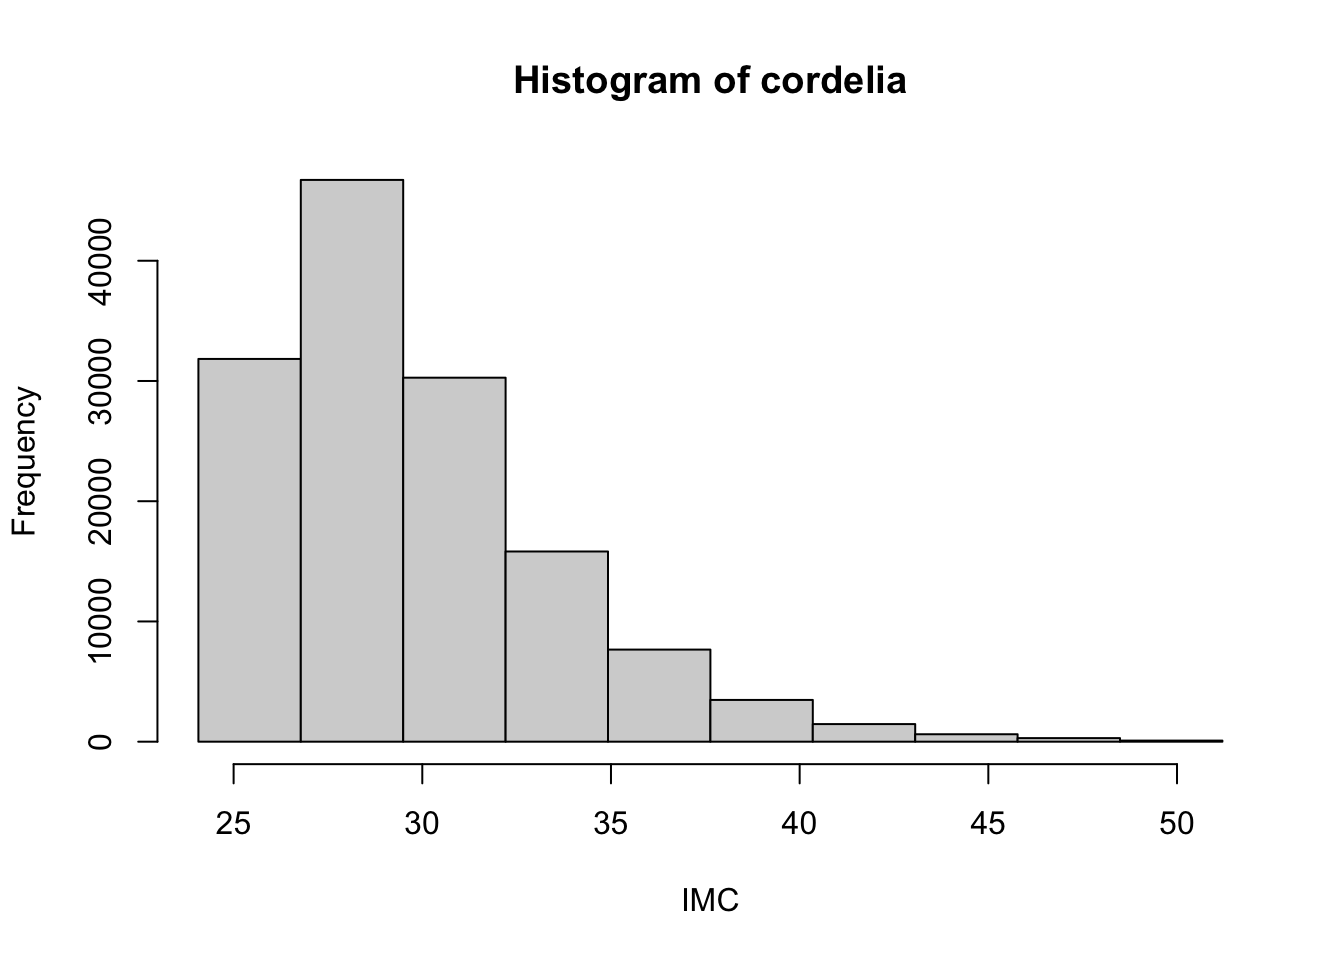
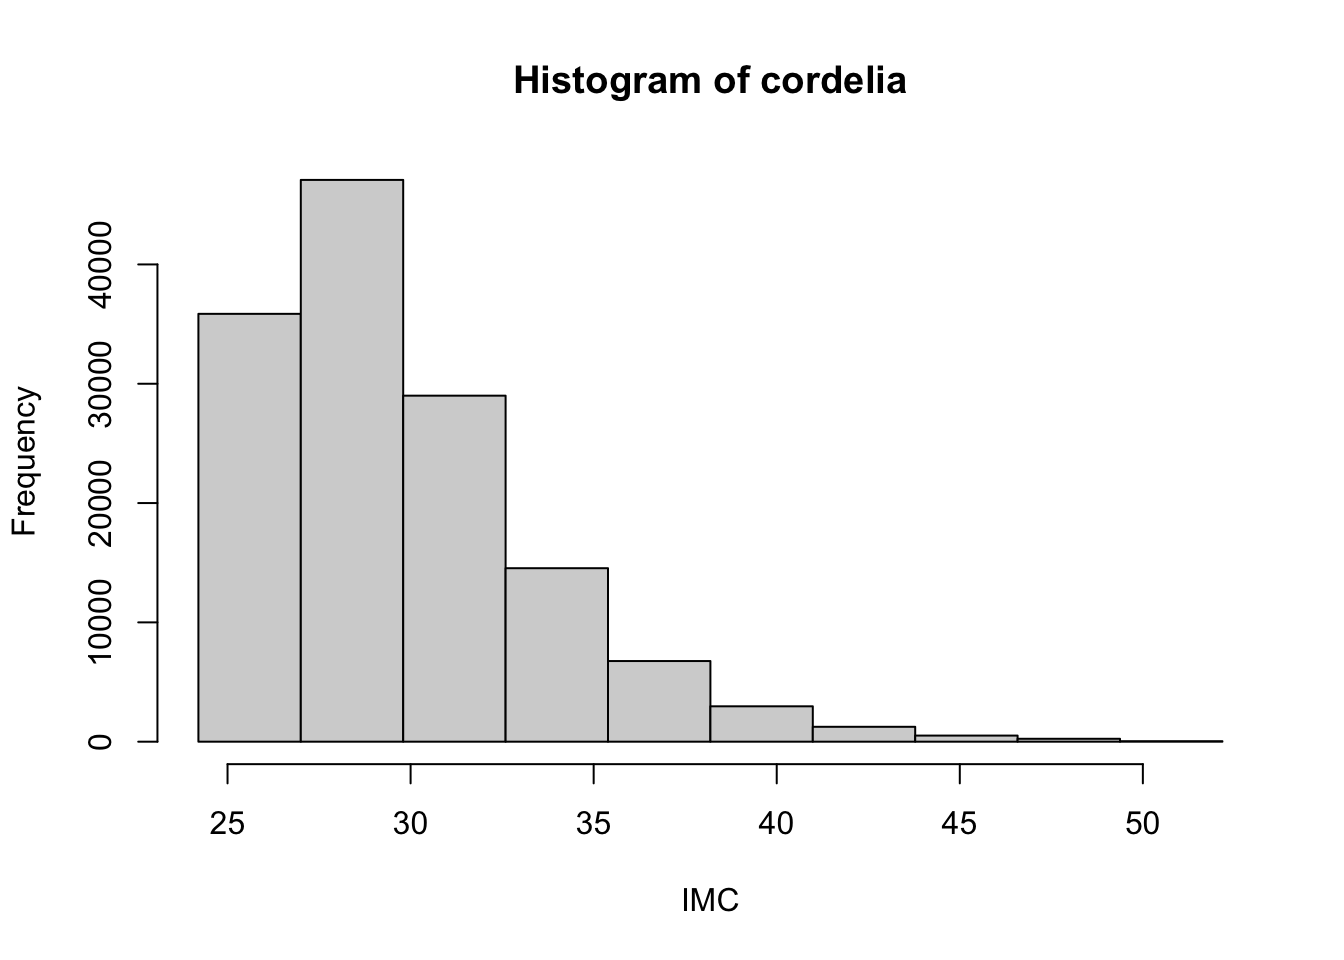
feat: add supplementary materials

diff --git a/docs/index.html b/docs/index.html
@@ -155,6 +155,7 @@ pre > code.sourceCode > span > a:first-child::before { text-decoration: underlin
   <li><a href="#getting-started" id="toc-getting-started" class="nav-link" data-scroll-target="#getting-started">Getting Started</a></li>
   <li><a href="#schedule" id="toc-schedule" class="nav-link" data-scroll-target="#schedule">Schedule</a></li>
   <li><a href="#workshop-materials" id="toc-workshop-materials" class="nav-link" data-scroll-target="#workshop-materials">Workshop Materials</a></li>
+  <li><a href="#supplementary-materials" id="toc-supplementary-materials" class="nav-link" data-scroll-target="#supplementary-materials">Supplementary Materials</a></li>
   </ul>
 </nav>
     </div>
@@ -247,13 +248,22 @@ pre > code.sourceCode > span > a:first-child::before { text-decoration: underlin
 </tr>
 </tbody>
 </table>
-<hr>
 </section>
 <section id="workshop-materials" class="level1">
 <h1>Workshop Materials</h1>
 <p><strong>Ready to start?</strong> Access the complete workshop materials here:</p>
 <p><strong><a href="workshop_cordelia.html">→ Go to the workshop materials</a></strong></p>
 <p><strong>Want just the R code?</strong> Download the complete R script: <strong><a href="workshop_cordelia.R">workshop_cordelia.R</a></strong> - This file contains all the code chunks in a clean, executable format.</p>
+</section>
+<section id="supplementary-materials" class="level1">
+<h1>Supplementary Materials</h1>
+<p>For additional reading and complementary resources, explore these academic publications and documentation:</p>
+<ul>
+<li><p><strong><a href="https://academic.oup.com/bioinformaticsadvances/article/5/1/vbaf046/8068803">DataSHIELD: taking the analysis to the data, not the data to the analysis</a></strong> - <em>Bioinformatics Advances</em> (2025)</p></li>
+<li><p><strong><a href="https://isglobal-brge.github.io/resource_bookdown/">BRGE DataSHIELD Bookdown</a></strong></p></li>
+<li><p><strong><a href="https://journals.plos.org/ploscompbiol/article?id=10.1371/journal.pcbi.1008880">DataSHIELD: resolving a conflict in contemporary bioinformatics—performing a pooled analysis of individual-level data without sharing the data</a></strong> - <em>PLoS Computational Biology</em> (2021)</p></li>
+<li><p><strong><a href="https://journals.plos.org/ploscompbiol/article?id=10.1371/journal.pcbi.1012626">Harmonizing and meta-analyzing omics data with a comprehensive pipeline</a></strong> - <em>PLoS Computational Biology</em> (2024)</p></li>
+</ul>
 
 
 </section>

diff --git a/docs/workshop_cordelia.html b/docs/workshop_cordelia.html
@@ -912,19 +912,19 @@ $validity.check
 <pre><code>      5%      10%      25%      50%      75%      90%      95%     Mean 
 25.39000 25.79000 26.93000 28.89000 31.63000 34.87000 37.13000 29.75356 
 $breaks
- [1] 24.06676 26.78037 29.49398 32.20759 34.92120 37.63480 40.34841 43.06202
- [9] 45.77563 48.48924 51.20285
+ [1] 24.20418 27.00101 29.79785 32.59468 35.39151 38.18835 40.98518 43.78201
+ [9] 46.57885 49.37568 52.17251
 
 $counts
- [1] 31834 46723 30274 15819  7660  3473  1464   619   297    91
+ [1] 35859 47084 29001 14540  6759  2965  1248   512   244    42
 
 $density
- [1] 0.0848528305 0.1245391343 0.0806946846 0.0421651984 0.0204175624
- [6] 0.0092572055 0.0039022600 0.0016499310 0.0007916470 0.0002425585
+ [1] 0.0927371879 0.1217668579 0.0750012880 0.0376027974 0.0174798699
+ [6] 0.0076679707 0.0032275303 0.0013241150 0.0006310236 0.0001086188
 
 $mids
- [1] 25.42357 28.13718 30.85078 33.56439 36.27800 38.99161 41.70522 44.41883
- [9] 47.13243 49.84604
+ [1] 25.60260 28.39943 31.19626 33.99310 36.78993 39.58676 42.38360 45.18043
+ [9] 47.97726 50.77409
 
 $xname
 [1] "xvect"
@@ -1205,19 +1205,19 @@ $cordelia
 </div>
 <div class="cell-output cell-output-stdout">
 <pre><code>$breaks
- [1]  19.25341  30.64614  42.03886  53.43159  64.82432  76.21704  87.60977
- [8]  99.00249 110.39522 121.78795 133.18067
+ [1]  19.36334  30.99729  42.63124  54.26518  65.89913  77.53308  89.16702
+ [8] 100.80097 112.43492 124.06886 135.70281
 
 $counts
- [1]  2681 26654 46725 37910 21126  7854  2846   884   257    80
+ [1]  2781 27116 50453 36084 19803  7461  2237   807   222    53
 
 $density
- [1] 1.600669e-03 1.591355e-02 2.789678e-02 2.263386e-02 1.261311e-02
- [6] 4.689167e-03 1.699181e-03 5.277850e-04 1.534398e-04 4.776335e-05
+ [1] 1.625947e-03 1.585371e-02 2.949799e-02 2.109697e-02 1.157808e-02
+ [6] 4.362168e-03 1.307890e-03 4.718228e-04 1.297951e-04 3.098712e-05
 
 $mids
- [1]  24.94977  36.34250  47.73523  59.12795  70.52068  81.91340  93.30613
- [8] 104.69886 116.09158 127.48431
+ [1]  25.18032  36.81426  48.44821  60.08216  71.71610  83.35005  94.98400
+ [8] 106.61794 118.25189 129.88584
 
 $xname
 [1] "xvect"
